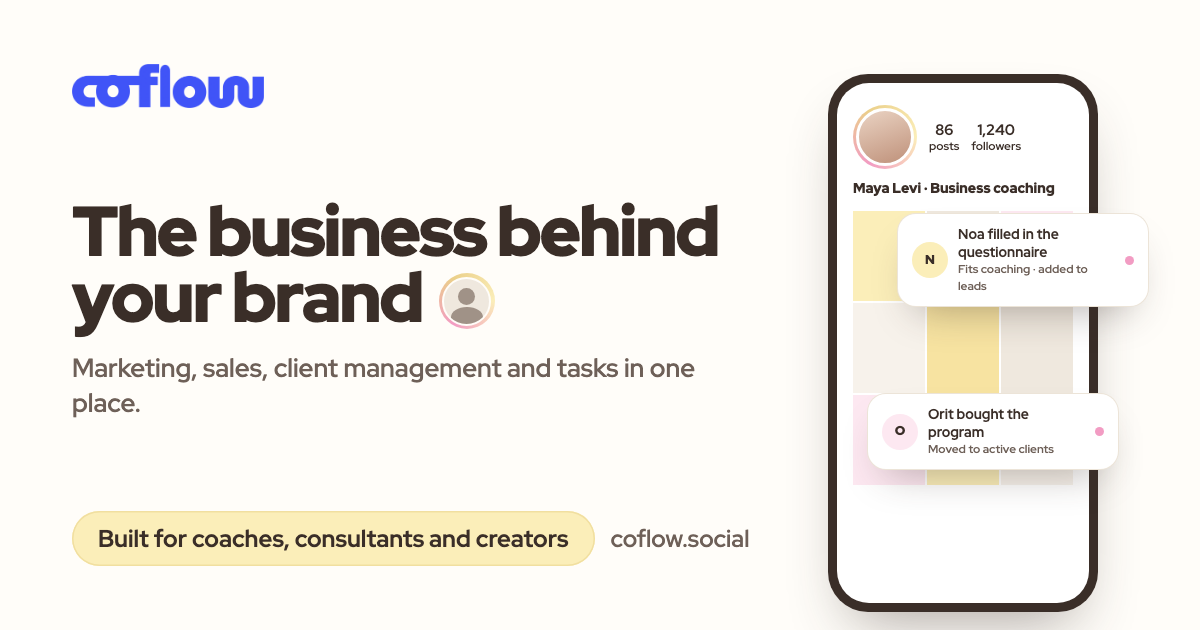
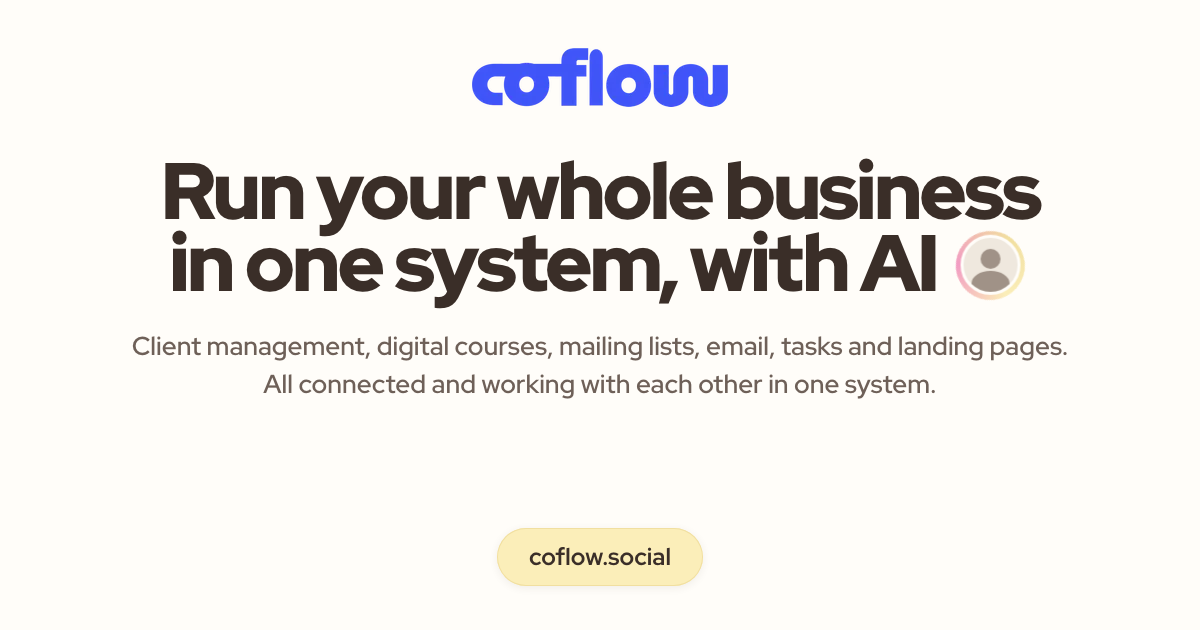
feat(site): share card shows the new home headline (he + en)

diff --git a/docs/landing-rewrite-2026-11.md b/docs/landing-rewrite-2026-11.md
@@ -18,7 +18,7 @@ Read first, in this order: `AGENTS.md`, `WORKING-WITH-BATEL.md`, `PRODUCT.md`,
 | "+" menu | the live menu without "plan a launch", plus "new club event" and "send an agreement to sign" |
 | Inner pages | courses-in-development wording removed; their copy still to be read through with Yuval |
 | To confirm in Studio before merging | that Claude moves Smoove lists, landing pages and email sequences; that the content board and post writing are live |
-| Share image (`public/og/home-*.png`) | open: still draws the headline from before October |
+| Share image (`public/og/home-*.png`) | done 2026-11-27: the new hero headline and line, he + en |
 | Price in the page's structured data (`lib/seo.tsx`) | €36, the Starter plan's monthly price on 2026-11-26 |
 | Studio-side fixes | not here: they live in `shebossit-cms`; see "Studio changes for Batel" below |
 
